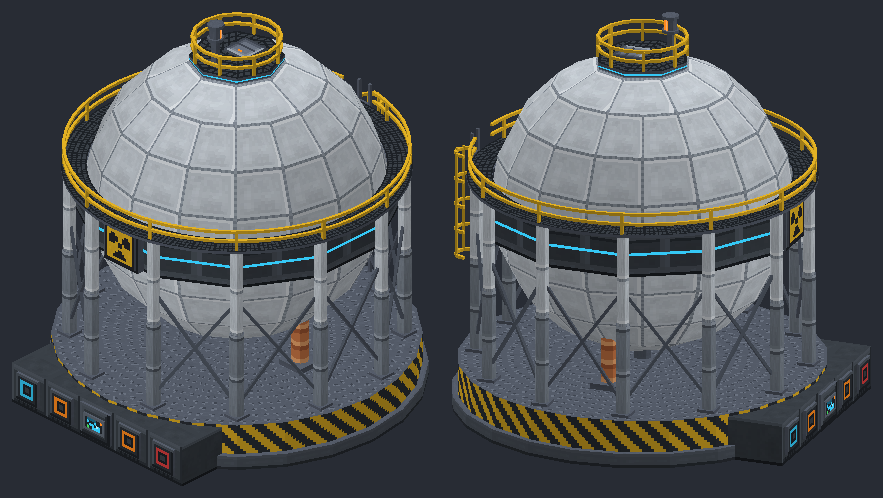
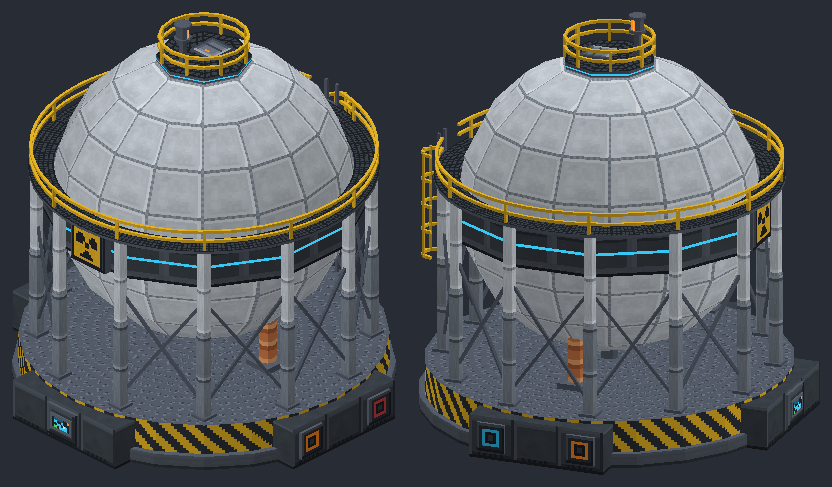
Breeder: inputs on the left side, outputs on the right, the screen alone on the front

diff --git a/art/tools/breeder_concept.py b/art/tools/breeder_concept.py
@@ -17,9 +17,10 @@ near 16 pixels wide and every corner meets its neighbours'. The belt's panels me
 are whole blocks, and decals (the trefoil, its plaque, the bezel) are drawn at their exact size.
 
 What it shows, bottom to top:
-- A graphite plinth with a hazard band, and the console on the front (north), proud of it: as you
-  face it, inputs on your left (fuel in, liquid sodium in), outputs on your right (the output port
-  for spent fuel and what the blanket bred, energy out), the control core's screen in the middle.
+- A graphite plinth with a hazard band, and three consoles proud of it: the control core's screen
+  on the front (north); as you face it, the inputs on your left side (fuel in, liquid sodium in)
+  and the outputs on your right (the output port for spent fuel and what the blanket bred, energy
+  out).
 - Twelve legs from the plinth to the equator on footings, braced in every bay but the front; a
   drain line from the sphere's foot, and two copper sodium lines from its underside, into the
   plinth.
@@ -142,21 +143,52 @@ for k, (n, n_in) in enumerate(RINGS):
 d.cylinder('hazard', 5, 16, PLINTH_R, n=RIM)
 band(0, 5, PLINTH_R + 2, n=RIM)
 d.annulus('breeder_fitting', 5, PLINTH_R, PLINTH_R + 2, n=RIM)
-# The console (north): five cells wide on the grid, so its panels show whole, a port centred on
-# each and the control core's screen in the middle one. Its front stands just ahead of the plinth's
-# lip (z 8 at the middle), no further; its top and ends are plain, so their depth cuts nothing.
-# As you face it (looking south), your left is east (larger x): inputs there, outputs to the west.
-FRONT_Z = 6
-d.box('breeder_console_side', 2 * B, 0, FRONT_Z, 7 * B, 15, 2 * B, top='breeder_graphite', skip=('north', 'south', 'down'))
-d.box('breeder_console', 2 * B, 0, FRONT_Z, 7 * B, 15, 2 * B, skip=('south', 'east', 'west', 'up', 'down'))
-PORTS = [('port_energy', 2), ('port_fuel', 3), ('core', 4), ('port_fuel', 5), ('port_coolant', 6)]
-for kind, cell in PORTS:
-    x = cell * B
-    if kind == 'core':
-        d.box('breeder_fitting', x + 1, 2, FRONT_Z - 1, x + 15, 14, FRONT_Z, decals={'north': 'breeder_bezel'}, skip=('south',))
-        d.box('breeder_fitting', x + 3, 5, FRONT_Z - 1.5, x + 13, 11, FRONT_Z - 1, decals={'north': 'screen'}, skip=('south',))
+# Three consoles, as the station has its ports: the front (north) keeps the control core's screen
+# alone, and the ports go on the two flat sides. As you face the front (looking south), your left
+# is east (larger x): the inputs go there (fuel in, liquid sodium in), and the outputs on the west
+# (the output port for spent fuel and what the blanket bred, energy out), never on one shared port.
+# Each console is three cells on the grid, so its panels show whole, its face just ahead of the
+# plinth's lip (2 pixels, no further); its top and ends are plain, so their depth cuts nothing.
+LIP = PLINTH_R + 2
+FACE = C - LIP - 2              # how far each console's face stands from the footprint's edge
+DEPTH = 2 * B - FACE            # back into the plinth, out of sight
+CELLS = (3 * B, 6 * B)          # the middle three cells along each side
+
+
+def console(side, ports):
+    """A console on `side` ('north', 'east' or 'west'), three cells long; `ports` gives what sits
+    in each cell (a port decal, 'core' for the screen, or None for a plain panel)."""
+    a1, a2 = CELLS
+    if side == 'north':
+        box = (a1, 0, FACE, a2, 15, FACE + DEPTH)
+    elif side == 'west':
+        box = (FACE, 0, a1, FACE + DEPTH, 15, a2)
     else:
-        d.box('breeder_fitting', x + 3, 3, FRONT_Z - 1, x + 13, 13, FRONT_Z, decals={'north': kind}, skip=('south',))
+        box = (2 * C - FACE - DEPTH, 0, a1, 2 * C - FACE, 15, a2)
+    ends = {'north': ('east', 'west'), 'east': ('north', 'south'), 'west': ('north', 'south')}[side]
+    back = {'north': 'south', 'east': 'west', 'west': 'east'}[side]
+    d.box('breeder_console_side', *box, top='breeder_graphite', skip=(side, back, 'down'))
+    d.box('breeder_console', *box, skip=tuple(f for f in ('north', 'south', 'east', 'west', 'up', 'down') if f != side))
+    for cell, kind in enumerate(ports):
+        if kind is None:
+            continue
+        a = a1 + cell * B
+        # Each part stands proud of the face by `out` pixels: its box runs from the face to there.
+        for (u1, v1, u2, v2, out0, out1, decal) in (
+                [(a + 1, 2, a + 15, 14, 0, 1, 'breeder_bezel'), (a + 3, 5, a + 13, 11, 1, 1.5, 'screen')] if kind == 'core'
+                else [(a + 3, 3, a + 13, 13, 0, 1, kind)]):
+            if side == 'north':
+                part = (u1, v1, FACE - out1, u2, v2, FACE - out0)
+            elif side == 'west':
+                part = (FACE - out1, v1, u1, FACE - out0, v2, u2)
+            else:
+                part = (2 * C - FACE + out0, v1, u1, 2 * C - FACE + out1, v2, u2)
+            d.box('breeder_fitting', *part, decals={side: decal}, skip=(back,))
+
+
+console('north', [None, 'core', None])
+console('east', ['port_fuel', None, 'port_coolant'])
+console('west', ['port_fuel', None, 'port_energy'])
 
 # ---------------------------------------------------------------- the sphere, in latitude bands
 def lat_point(lat):

diff --git a/docs/DESIGN.md b/docs/DESIGN.md
@@ -389,7 +389,7 @@ Concept in `art/tools/breeder_concept.py` (textures `breeder_textures.py`, rende
 - **Getting up it:** a grated walkway round the belt with a yellow handrail, reached by a caged ladder up the back. The railed platform on top carries the fuel hatch over the core and a cyan light strip round its edge. (A spiral stair from the walkway to the platform was tried and set aside, 30 Sep 2026.)
 - **The beacon** on a mast at the platform's front: an amber lamp half covered by its reflector, turned by a block entity renderer while the reactor runs, so a running breeder shows from across a base (as the station's aviation beacons mark it). The breeder's one moving part, drawn in its own group.
 - **Below the sphere:** a floor of steel tread plate on the plinth, footings under the legs, a drain line from the sphere's foot, and two copper sodium lines (clamped every few pixels) from its underside into the plinth.
-- **The console** on the front, proud of the plinth, five cells wide and two blocks deep, each port in a recessed bay flush with its face: as you face it, fuel in and liquid sodium in on the left, the output port (spent fuel and what the blanket bred) and energy out on the right, the control core's screen in the middle.
+- **Three consoles** round the plinth, as the station has its ports, each three cells long and just proud of the plinth: the front one carries the control core's screen alone; as you face it, the inputs are on your left (fuel in, liquid sodium in) and the outputs on your right (the output port for spent fuel and what the blanket bred, energy out), each port in its own cell, never shared.
 - **Even textures:** the sphere's radius makes each latitude band exactly one plate high; the plate counts only halve from band to band, and where they do each wide plate is drawn in two halves meeting the narrow plates' corners, so the surface closes with no gaps; the belt's panels meet at the legs, and decals are drawn at their exact size.
 - Earlier passes (a round tank with its machinery on the roof, then the tank alone) were set aside on 30 Sep 2026; they are in git history.
 
